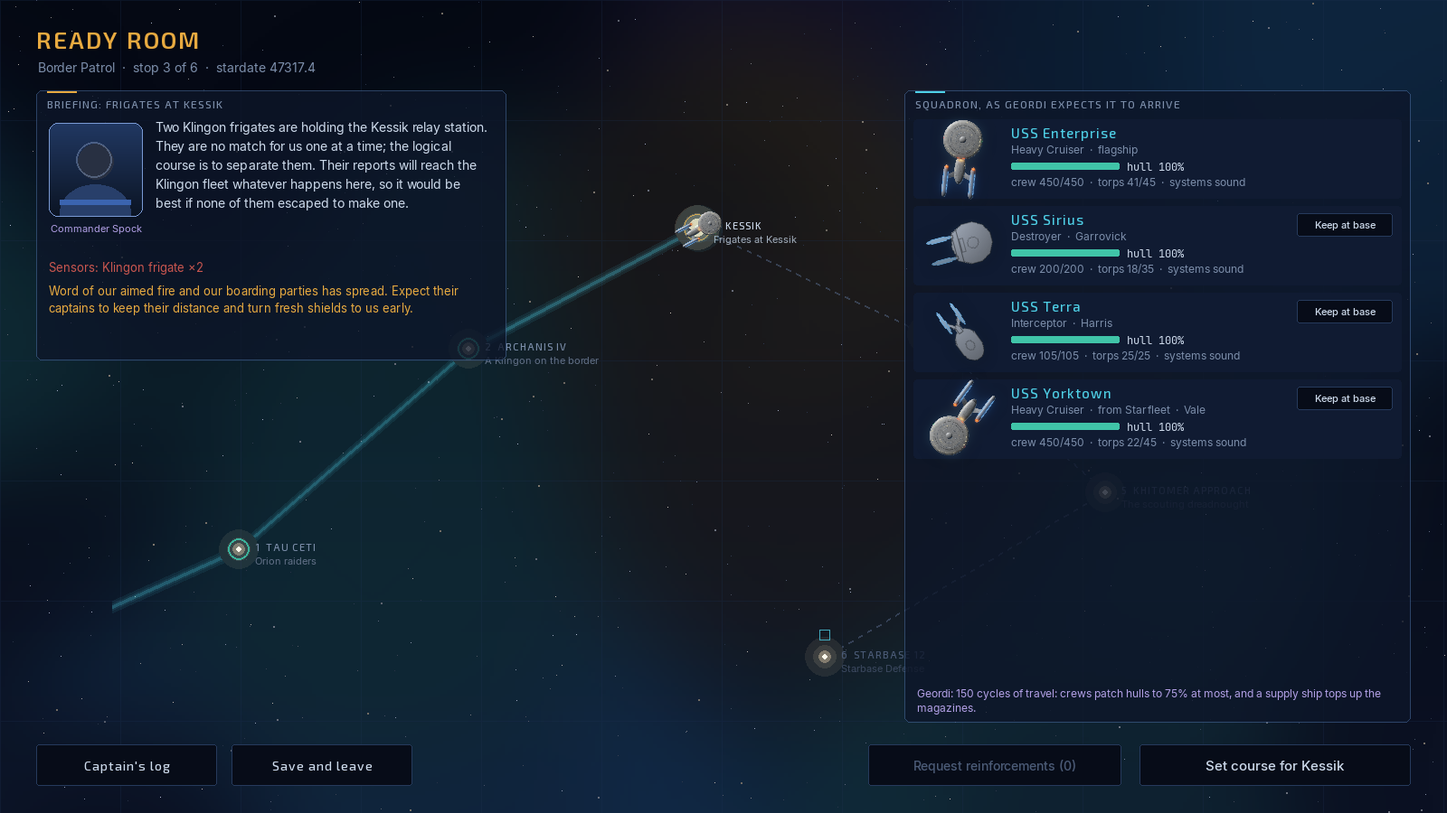
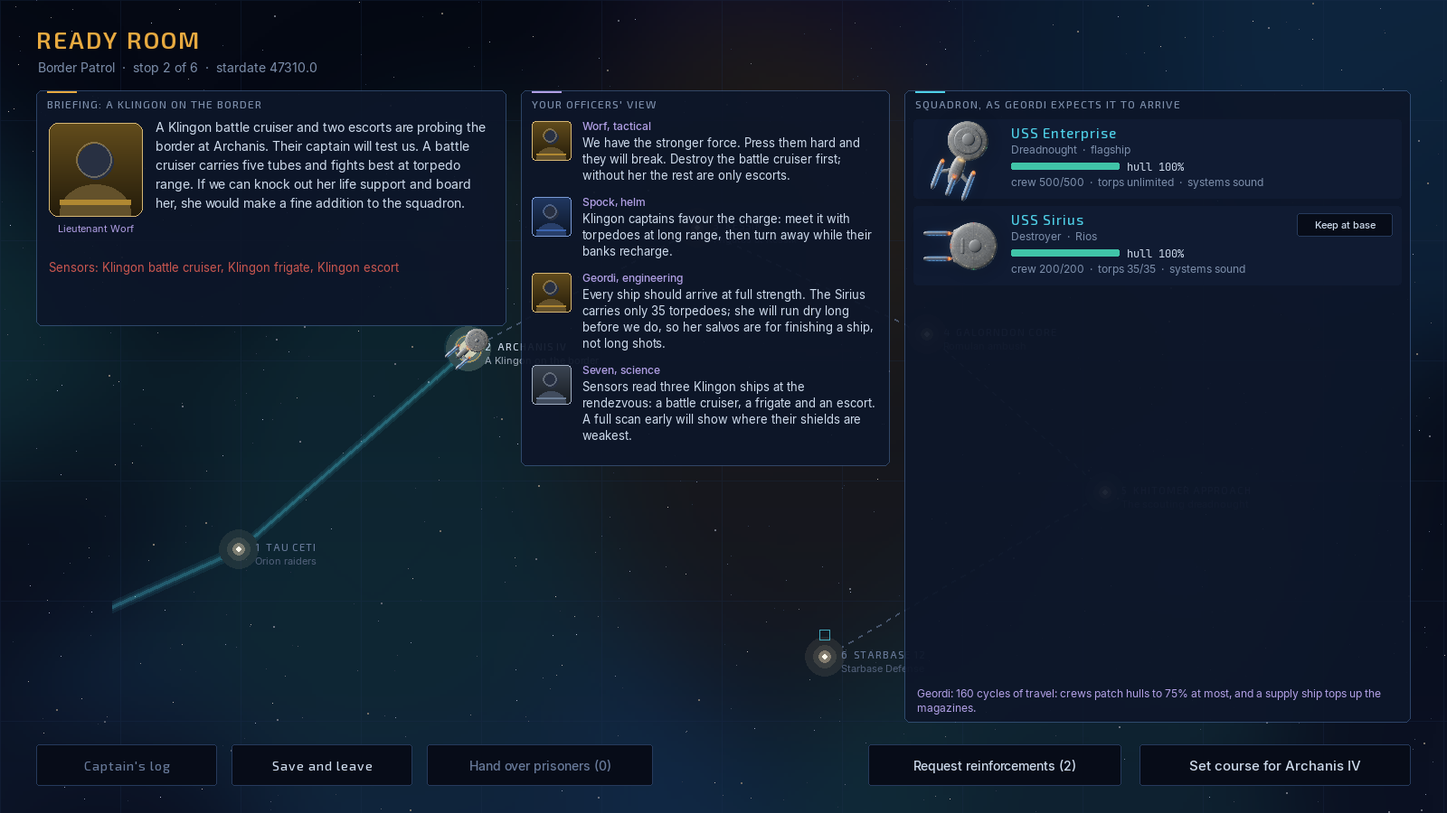
Docs and manual: missions, counsel, hold range, Starfleet's assessment, Ready Room view
- README: Missions and counsel section, new assessment and counsel screenshots, Ready Room officers' view
- Help: O and 1-4 keys, counsel in Your crew, missions playbook and hold range in The sword and the mind,
  assessment wording and Karagite rule, officers' view in Tours, index entries
- ARCHITECTURE: missions, situation, counsel, hold range, assessment and ready counsel modules
- Manual rebuilt

diff --git a/docs/MANUAL.md b/docs/MANUAL.md
@@ -289,6 +289,10 @@ Start a line with an officer's name and talk:
 
 They answer from what your sensors know, never more. Now and then an officer at a station you are running proposes an order ("Torpedoes inbound, Captain. Evasive manoeuvres?"). **Y** makes it so and **N** belays it. With a language model connected ([Officers and language models](#topic-llm)), they answer in their own words and never repeat a line. Without one, they use lines written for them. Either way, `crew chatter off` quiets them, though an officer working a job still says what they are doing.
 
+### Counsel
+
+Press **O** (or type `counsel`) and all four lay out a way forward at once, each from their own station: Worf the sword, Spock geometry and the mind, La Forge keeping the ship alive to win, Seven knowing before striking. Each plan is two to four console lines built from the live fight, and the panel is rebuilt as the fight changes. Go all in on one (**1** to **4**) or click single steps from several; both can win. Name a goal (`counsel disable all their engines`) and each plans toward it. The battle slows while you read; press **Space** first to stop it entirely. See [Counsel from the bridge](#topic-counsel).
+
 ### Trust and rapport
 
 They remember. Thanks and taking their advice build **rapport**, and insults wear it down. Rapport colours how they speak to you. **Trust** grows as you fight together: for each proposal you accept, each battle won at their post, and each time they stand out in the debrief. Trusted officers propose even while you type. Veterans act on an urgent proposal themselves if you leave it unanswered. See [Command styles and trust](#topic-styles).
@@ -623,7 +627,7 @@ The side that chooses the range usually wins. Look at your weapons and at hers, 
 - **Torpedo-heavy ships** want to stand off inside their torpedo envelope and outside her phasers.
 - **Phaser-heavy ships** want to close fast and stay close, where every hit is strongest.
 
-Use `pursue <ship> warp <w>` to hold a chase and `elude <ship>` to keep away. The [Coach](#topic-coach) tells you which side of each envelope you are on. Remember that her motion moves the envelope: a ship charging at you shrinks your minimum range, and a ship running away stretches it.
+Use `pursue <ship> warp <w>` to hold a chase, `elude <ship>` to keep away, and `pursue <ship> at 9000` (or `elude <ship> at 9000`) to hold her at a chosen range: the helm closes when she is beyond it, opens when she is inside, and circles her in between. The [Coach](#topic-coach) tells you which side of each envelope you are on. Remember that her motion moves the envelope: a ship charging at you shrinks your minimum range, and a ship running away stretches it.
 
 #### Fight with your shields
 
@@ -672,6 +676,8 @@ You can't watch everything, and you don't have to:
 - Hand the helm to Spock while you fight the guns.
 - Hand Seven a job: disable their shields, take out her torpedoes, find that cloaked ship.
 - When the battle is too big, give an officer the conn and step in only where it matters.
+
+When you aren't sure, ask the whole bridge at once: **O** opens the [Counsel from the bridge](#topic-counsel), four plans from four perspectives, each a few console lines you can run whole or a step at a time.
 
 Your orders always come first. See [Your crew](#topic-your-crew).
 
@@ -744,6 +750,14 @@ Allies follow standing orders until you change them:
 - A crippled ally can be towed to a starbase with `tow`. Docked, she can't be hit and repairs twice as fast.
 
 See [Ally orders](#topic-tell).
+
+#### Missions
+
+A mission changes what winning means ([Missions](#topic-missions)):
+
+- **Rescue.** The hunter goes for the stricken ship first, so kill or draw her off, then close to 3,000 and lower only the shield that faces the wreck. Keep the armoured side to the enemy, or have a wingman screen you.
+- **Escort.** Get between the hunters and the freighter early; once she is under fire it is already late. Disabling a hunter's drives works as well as killing her.
+- **Intercept.** Don't chase her stern. Lay a course that meets her (Spock's "Cut her off" works one out), and leave her escorts for later unless they stand in the way. Disabling her engines ends it as surely as destroying her.
 
 ### More than one way to win
 
@@ -956,12 +970,14 @@ Begin's commands all work as written. On top of them:
 - [Named tactical orders](#topic-orders): a battle plan written before the fight or recorded during it, run with one word.
 - [Patrols](#topic-patrol) and [tours of duty](#topic-tour): a fresh mission each time, or battles linked into a campaign.
 - [Hailing enemy captains](#topic-hailing), who can be talked into surrendering or leaving.
+- [Missions](#topic-missions) with a goal beyond holding the field: rescue a stricken ship's people, get a convoy through, stop a runner.
+- [Counsel from the bridge](#topic-counsel): press **O** and each officer lays out a plan from the live fight, or toward a goal you name.
 - [Sharp drawing on Retina and 4K screens](#topic-display), with weapon light on the hulls.
 - [Orders in plain English](#topic-plain-english) with a language model; exact commands and short forms like `tor al` always run at once.
 - [Language models](#topic-llm), including an optional second model for character voices: richer Klingon, Romulan and other alien speech.
 - [Hull repairs](#topic-repair) and an engineer who can direct the crews, [crew morale](#topic-morale) and `address crew`, and [evasive manoeuvres](#topic-helm).
 - [Sound](#topic-sound) with a choice of phaser and torpedo sounds, or your own WAV files.
-- [The battle assessment](#topic-after-battle), with the officer who did the most.
+- [Starfleet's assessment](#topic-after-battle): the mission, lives, conduct and cost, a commendation when one is earned, and a line from each officer.
 - The [Coach](#topic-coach), which also runs a training session from the main menu before your first battle.
 
 #### Using this manual
@@ -1029,6 +1045,8 @@ The page format is described in [Writing help pages](#topic-writing-help).
 | **1**–**8** with the wheel open | Pick a slice |
 | **Y** / **N** | Make an officer's proposal so, or belay it |
 | **Ctrl+Y** while typing | Accept the urgent proposal shown above the console |
+| **O** | Open or close the counsel: each officer's plan from here. See [Counsel from the bridge](#topic-counsel). |
+| **1**–**4** with the counsel open | Go all in on that officer's plan |
 | **Tab** while typing | Finish a command, ship, officer or order name |
 | Hold **Right Alt** (Option on a Mac) | Speak an order; let go to send it. See [Speaking orders](#topic-voice-orders). |
 
@@ -1053,7 +1071,7 @@ The page format is described in [Writing help pages](#topic-writing-help).
 | **H** | Open this manual |
 | **F1** | Open this page |
 | **F2–F8, F10–F12**, **Ctrl+letter** | Run a key macro. See [Key macros](#topic-keys). |
-| **Esc** | Close the open window or text display, or open the battle menu |
+| **Esc** | Close the counsel, the open window or text display, or open the battle menu |
 
 #### How much the panels show
 
@@ -3548,10 +3566,10 @@ When the battle ends, **Starfleet's assessment** opens over the map: the battle 
 
 - **The headline** answers the mission when there was one ("Everyone aboard the Aldren is safe."), else who holds the field. Under it, how the battle went in the field.
 - **Mission**: how it ended, with the people saved on a rescue.
-- **Lives**: people rescued, our crew lost, and the enemy's crew spared (surrendered, taken prisoner, allowed to withdraw on terms) and lost.
+- **Lives**: people rescued, our crew lost (or "no one of ours lost"), and the enemy's crews spared (surrendered, taken prisoner, allowed to withdraw on terms) and lost.
 - **Conduct**: surrenders accepted, prisoners taken, truces kept, and any fire on a ship that had struck her colours.
 - **Cost**: the flagship's hull, torpedoes left, systems down, ships lost.
-- **Commendation**: at most one, and only for something specific. The **Karagite Order of Heroism** for bringing everyone off a stricken ship under fire; the **Palm Leaf of Axanar Peace Mission** for winning while sparing those who yielded; the **Grankite Order of Tactics** for a decisive victory against several ships that left your ship sound.
+- **Commendation**: at most one, and only for something specific. The **Karagite Order of Heroism** for bringing every soul off a stricken ship, most of them beamed across while the enemy was still fighting (people taken off after the battle don't count toward it); the **Palm Leaf of Axanar Peace Mission** for winning while sparing those who yielded; the **Grankite Order of Tactics** for a decisive victory against several ships that left your ship sound.
 - **The bridge**: a line from each officer whose work showed, in their own manner.
 - **What follows**: who escaped and what they will report, what the enemy will remember of your conduct, and on a tour, what the mission's result changes.
 
@@ -3569,7 +3587,7 @@ Then each side's losses, and a line for every ship: damage dealt and taken, phas
 
 The panel borders pulse red while your ship is at **red alert**: hit in the last few cycles, or with an enemy within 12,000. A two-tone whoop sounds three times when it starts. The borders pulse for a few seconds, then settle to a steady red edge for the rest of the fight. A ship below half hull sheds sparks: always yours, and an enemy's only once a scan has shown the damage, so the map never gives away what your sensors don't know.
 
-See also: [Bridge officers](#topic-crew), [Crew morale](#topic-morale), [Time, pause and quitting](#topic-time).
+See also: [Missions](#topic-missions), [Counsel from the bridge](#topic-counsel), [Bridge officers](#topic-crew), [Crew morale](#topic-morale), [Time, pause and quitting](#topic-time).
 
 <a id="topic-styles"></a>
 
@@ -3684,6 +3702,7 @@ Before the tour you choose the escorts that sail with the flagship. Each class c
 Between stops you are in the Ready Room, over the patrol chart.
 
 - **The briefing.** The officer who knows the threat best tells you what to expect, and what the enemy has learned about you so far. Fight with aimed fire and boarding parties and their captains grow wary; run your magazines low and they close in.
+- **Your officers' view.** Worf, Spock, La Forge and Seven each give two sentences on the next stop: the force to beat and where to strike, how that navy likes to fight and the geometry of any mission, how the squadron will arrive and whether a refit or a call to Starfleet is worth it, and what the sensors can and can't tell us yet. See [Counsel from the bridge](#topic-counsel).
 - **Your decision.** Some stops ask you to choose, for example whether to put in for a refit. A refit makes every ship good, but the enemy uses the time too.
 - **The squadron.** Each ship as Geordi expects her to arrive. On the way, crews repair systems and patch hulls (to 75% at most; a starbase does the rest), and a supply ship tops up the magazines. **Keep at base** leaves a ship behind to be refitted; she misses the next fight.
 - **Request reinforcements.** Starfleet sends a ship. Called from the Ready Room, she meets you at the stop, or partway into the fight if the trip is short. Each tour allows only a few calls.

diff --git a/README.md b/README.md
@@ -12,7 +12,7 @@ You command a starship from a top-down tactical map and a Begin-style command co
 - aimed fire at a ship's systems, and boarding parties that take and keep enemy ships;
 - enemy captains you can hail, who are cowed or enraged by what you do to their allies, and who can be talked into surrendering or leaving;
 - a campaign: tours of duty that link battle after battle, with a squadron that carries its scars;
-- patrols: a random mission each time, from an ambush on two sides to a flagship behind her screen;
+- patrols: a random mission each time, from an ambush on two sides to a flagship behind her screen, a distress call, a convoy or a runner;
 - officers you shape yourself in a config file, from a new name to a Worf who cooks for the crew, and whose trust in you grows across battles;
 - an optional second language model just for the characters, for richer Klingon, Romulan and other alien speech;
 - crew morale and hull repairs;
@@ -29,7 +29,7 @@ Between stops you sit in the Ready Room over the patrol chart. The officer who k
 
 And the tour writes itself down. After each stop your bridge officers report on their stations, each captain in the squadron reports on their own ship, and your own entry is drafted for you to keep or rewrite. With a language model configured, the officers write in their own voices. The whole log is kept as Markdown you can edit, so a tour ends as a story of the patrol you actually flew. More on how it plays is under [Tours of duty](#tours-of-duty) below.
 
-![The Ready Room: Spock's briefing, the squadron as it will arrive, and the patrol chart behind](docs/screenshots/tour-ready.png)
+![The Ready Room: Worf's briefing, each officer's view of the next stop, and the squadron as Geordi expects it to arrive](docs/screenshots/tour-ready.png)
 
 ## Download and play
 
@@ -236,11 +236,19 @@ Nothing is required. If OpenGL 3.3 isn't there (an old driver, a remote desktop,
 
 The game synthesises all of its sound when it starts. You only hear what you can see, panned to where it happens on the map. **M** mutes, `sound 40` sets the volume, and `sound phaser a` or `sound torpedo b` picks one of four versions of each (rays and buzzes, pulses and thumps). To use your own, drop `phaser.wav` or `torpedo.wav` into `config/sounds/` and it replaces the game's.
 
+### Missions and counsel
+
+Some battles carry a mission beyond holding the field. On a **rescue** a crippled ship of ours drifts with people aboard and a failing reactor: close to transporter range and lower the one shield that faces her, while a hunter goes for her and the rest come for you. On an **escort** a freighter sails for a point and cannot fight. On an **intercept** a runner makes for the edge of the sector with her report, already out on the flank, and a stern chase loses her. The mission card on the map shows how it stands, and a failed mission changes what happens later in a tour.
+
+Press **O** for counsel and your four officers each lay out a way forward from the live fight, from their own station: Worf the sword, Spock geometry and the mind, La Forge keeping the ship alive to win, Seven knowing before striking. Every plan is a few console lines, rebuilt as the battle changes. Go all in on one with **1** to **4**, or click single steps from several; in testing over 210 battles both ways won. Aim it at a goal (`counsel disable all their engines`, `counsel kill all the borg cubes`) and each officer plans toward that instead. The battle slows while the panel is open, and **Space** stops it. Officers who want a ship fought at a range now say so with a hold-range order, `pursue gorkon at 9000`, which keeps her there instead of running off the map.
+
+![Counsel during a rescue: four officers' plans on the left, the mission card at the top](docs/screenshots/counsel.png)
+
 ### After the battle
 
-The assessment shows the score, your ship's record, every ship's damage and hits, and the officer who did the most for you.
+**Starfleet's assessment** reads the battle as Command will: the mission, the lives saved and lost on both sides, how you treated those who yielded, what it cost, a commendation when one is earned (the Karagite Order of Heroism, the Palm Leaf of Axanar Peace Mission, the Grankite Order of Tactics), and a line from each officer whose work showed. **Details** opens the full record: the score, your ship's record, every ship's damage and hits, and the officer who did the most for you.
 
-![The battle assessment](docs/screenshots/debrief.png)
+![Starfleet's assessment after a rescue: everyone safe, a decisive victory and the Grankite Order of Tactics](docs/screenshots/assessment.png)
 
 ### Patrols
 
@@ -250,7 +258,7 @@ The assessment shows the score, your ship's record, every ship's damage and hits
 
 ### Tours of duty
 
-**Tour of duty** on the main menu (or **T**) strings battles into a patrol. Pick your escorts within the tour's fleet budget, then fly stop after stop: every ship keeps her damage, casualties, empty torpedo racks and morale from one fight to the next, prizes you board join the squadron, and a ship you lose stays lost. Between stops you are in the Ready Room, over the patrol chart: an officer briefs you on the next stop (and on what the enemy has learned about how you fight), you make the stop's decision, such as a refit that costs time, and Geordi shows how each ship will arrive after the crews patch her up on the way. You can call Starfleet for reinforcements there or in battle with `request reinforcements`; the ship drops out of warp after a delay, with her ETA on the map. Starbase stops come in waves, with a lull between them for docking.
+**Tour of duty** on the main menu (or **T**) strings battles into a patrol. Pick your escorts within the tour's fleet budget, then fly stop after stop: every ship keeps her damage, casualties, empty torpedo racks and morale from one fight to the next, prizes you board join the squadron, and a ship you lose stays lost. Between stops you are in the Ready Room, over the patrol chart: an officer briefs you on the next stop (and on what the enemy has learned about how you fight), each officer gives their view of it in two sentences, you make the stop's decision, such as a refit that costs time, and Geordi shows how each ship will arrive after the crews patch her up on the way. You can call Starfleet for reinforcements there or in battle with `request reinforcements`; the ship drops out of warp after a delay, with her ETA on the map. Starbase stops come in waves, with a lull between them for docking.
 
 After each stop your officers write up their stations, each captain reports on their ship, and your own entry is drafted for you to rewrite. With a language model configured, the officers rewrite theirs in their own voices. The log is kept as Markdown in `config/tours/`, and you can edit your entries there too. Four tours ship with the game, and your own go in `config/tours/*.toml` (see [docs/EXTENDING.md](docs/EXTENDING.md#a-tour-of-duty)).
 

diff --git a/docs/ARCHITECTURE.md b/docs/ARCHITECTURE.md
@@ -184,6 +184,15 @@ How the captain gives orders is layered over the console rather than beside it: 
 - **On the screen**: `ui/wheel.py` (`CommandWheel`, slices from `wheel.toml` via `load_wheels`, the captain's file winning kind by kind), `ui/order_marks.py` (the captain's standing orders drawn on the map, and the ghost of the typed line), and `ui/orders_panel.py` (the Orders tab's cards).
 - **Voice** (`voice/`, `ui/microphone.py`, `ui/battle/voice.py`): `Recorder` captures 16 kHz mono through SDL while the push-to-talk key is held and returns a WAV; an `Engine` from `voice/engines.make_engine` (`MacSpeech`, `WhisperLocal`, `WhisperServer`, `CloudWhisper`) turns it into text on a worker thread, and the text is typed into the console as if by hand. `MacSpeech` builds `mac_transcribe.swift` into `config/voice/` the first time; a failure is a `VoiceError` shown as it is.
 
+## Missions, counsel and the assessment
+
+- **Missions** (`sim/mission.py`): a `MissionDef` (rescue, escort or intercept) is read from a tour stop or preset, and `Mission` runs inside the world each tick: the ward, the hunters, beaming people across through a lowered shield, the escort's course, the runner's pace (`runner_pace` × our fastest ship's top warp) and the result. The ward is not a fighting ship, so it never holds the field or escapes. `battle_over` settles what is left when the battle ends.
+- **The situation** (`crew/situation.py`): `Situation` is one read-only picture of the fight for the officers, built only from what our sensors, scans and hits know: our ship in full, every contact, both sides' envelopes, cloaks and plasma trails, the Borg's adaptation, the mission (`MissionView`, with the runner's intercept course) and Starfleet's calls.
+- **Counsel** (`crew/counsel.py`): `moves(situation, goal)` lists every move that fits now, each a short list of console lines with a lean toward each station; `counsel()` gives each officer the move they lean to most, then follow-ons that share no line with another officer's plan, so the four plans are distinct. Only lines the parser accepts now are offered. `parse_goal` reads a goal ("disable all their engines") into a `Goal`. The panel is `ui/counsel_view.py`; it is rebuilt about once a cycle while open and slows the battle like typing does.
+- **Holding a range**: `Pursue.keep` sets `Ship.helm_keep`, and the helm (`sim/systems/helm.py`) closes, opens or circles within `KEEP_BAND` of it.
+- **The assessment** (`session/assessment.py`): built from the world's outcome, the mission and the score; the overlay is drawn in `ui/battle/render.py`, with **Details** opening the older debrief.
+- **Before the battle** (`tour/ready.py`): `ready_counsel(run)` gives each officer's two sentences on the next stop from what the tour knows; `ui/tour_scene.py` shows them in the Ready Room.
+
 ## The manual
 
 There is one manual, and it is written once. The help pages (`assets/help/*.md`, read by `help/docs.py`) are what the in-game manual shows. Pages in the "Captain's manual" category are the chapters: the powers, the crew, how a battle works, orders, weapons, tactics and the moves no button tells you about. `{{...}}` blocks fill tables from the game's data when a page is shown (`help/coach.py`, `help/lore.py`). `help/book.py` binds the same pages into `docs/MANUAL.md`: the chapters, then every other page by category, then the data tables. Only shipped data goes in, never a player's own config.

diff --git a/src/begin/assets/help/sword-and-mind.md b/src/begin/assets/help/sword-and-mind.md
@@ -17,7 +17,7 @@ The side that chooses the range usually wins. Look at your weapons and at hers, 
 - **Torpedo-heavy ships** want to stand off inside their torpedo envelope and outside her phasers.
 - **Phaser-heavy ships** want to close fast and stay close, where every hit is strongest.
 
-Use `pursue <ship> warp <w>` to hold a chase and `elude <ship>` to keep away. The [[coach]] tells you which side of each envelope you are on. Remember that her motion moves the envelope: a ship charging at you shrinks your minimum range, and a ship running away stretches it.
+Use `pursue <ship> warp <w>` to hold a chase, `elude <ship>` to keep away, and `pursue <ship> at 9000` (or `elude <ship> at 9000`) to hold her at a chosen range: the helm closes when she is beyond it, opens when she is inside, and circles her in between. The [[coach]] tells you which side of each envelope you are on. Remember that her motion moves the envelope: a ship charging at you shrinks your minimum range, and a ship running away stretches it.
 
 ### Fight with your shields
 
@@ -66,6 +66,8 @@ You can't watch everything, and you don't have to:
 - Hand the helm to Spock while you fight the guns.
 - Hand Seven a job: disable their shields, take out her torpedoes, find that cloaked ship.
 - When the battle is too big, give an officer the conn and step in only where it matters.
+
+When you aren't sure, ask the whole bridge at once: **O** opens the [[counsel]], four plans from four perspectives, each a few console lines you can run whole or a step at a time.
 
 Your orders always come first. See [[your-crew|Your crew]].
 
@@ -138,6 +140,14 @@ Allies follow standing orders until you change them:
 - A crippled ally can be towed to a starbase with `tow`. Docked, she can't be hit and repairs twice as fast.
 
 See [[tell]].
+
+### Missions
+
+A mission changes what winning means ([[missions]]):
+
+- **Rescue.** The hunter goes for the stricken ship first, so kill or draw her off, then close to 3,000 and lower only the shield that faces the wreck. Keep the armoured side to the enemy, or have a wingman screen you.
+- **Escort.** Get between the hunters and the freighter early; once she is under fire it is already late. Disabling a hunter's drives works as well as killing her.
+- **Intercept.** Don't chase her stern. Lay a course that meets her (Spock's "Cut her off" works one out), and leave her escorts for later unless they stand in the way. Disabling her engines ends it as surely as destroying her.
 
 ## More than one way to win
 

diff --git a/src/begin/assets/help/after-battle.md b/src/begin/assets/help/after-battle.md
@@ -4,16 +4,16 @@ category: Game
 order: 4
 aliases: after the battle, assessment, starfleet's assessment, commendation, commendations, debrief, battle assessment, score, standout, standout officer, review the field, red alert
 summary: Starfleet's assessment of the battle (mission, lives, conduct, cost, a commendation), and the full record behind it.
-see: crew, morale, time
+see: missions, counsel, crew, morale, time
 ---
 When the battle ends, **Starfleet's assessment** opens over the map: the battle as Starfleet Command will read it.
 
 - **The headline** answers the mission when there was one ("Everyone aboard the Aldren is safe."), else who holds the field. Under it, how the battle went in the field.
 - **Mission**: how it ended, with the people saved on a rescue.
-- **Lives**: people rescued, our crew lost, and the enemy's crew spared (surrendered, taken prisoner, allowed to withdraw on terms) and lost.
+- **Lives**: people rescued, our crew lost (or "no one of ours lost"), and the enemy's crews spared (surrendered, taken prisoner, allowed to withdraw on terms) and lost.
 - **Conduct**: surrenders accepted, prisoners taken, truces kept, and any fire on a ship that had struck her colours.
 - **Cost**: the flagship's hull, torpedoes left, systems down, ships lost.
-- **Commendation**: at most one, and only for something specific. The **Karagite Order of Heroism** for bringing everyone off a stricken ship under fire; the **Palm Leaf of Axanar Peace Mission** for winning while sparing those who yielded; the **Grankite Order of Tactics** for a decisive victory against several ships that left your ship sound.
+- **Commendation**: at most one, and only for something specific. The **Karagite Order of Heroism** for bringing every soul off a stricken ship, most of them beamed across while the enemy was still fighting (people taken off after the battle don't count toward it); the **Palm Leaf of Axanar Peace Mission** for winning while sparing those who yielded; the **Grankite Order of Tactics** for a decisive victory against several ships that left your ship sound.
 - **The bridge**: a line from each officer whose work showed, in their own manner.
 - **What follows**: who escaped and what they will report, what the enemy will remember of your conduct, and on a tour, what the mission's result changes.
 

diff --git a/src/begin/assets/help/tour.md b/src/begin/assets/help/tour.md
@@ -2,7 +2,7 @@
 title: Tours of duty
 category: Game
 order: 5
-aliases: tour, tours, tour of duty, request, request reinforcements, reinforcements, ready room, squadron, captain's log, log, waves
+aliases: tour, tours, tour of duty, officers' view, request, request reinforcements, reinforcements, ready room, squadron, captain's log, log, waves
 summary: Linked battles with a squadron you choose: damage, crews, torpedoes and prizes carry from one stop to the next.
 see: after-battle, crew, dock, fleet
 ---
@@ -19,6 +19,7 @@ Before the tour you choose the escorts that sail with the flagship. Each class c
 Between stops you are in the Ready Room, over the patrol chart.
 
 - **The briefing.** The officer who knows the threat best tells you what to expect, and what the enemy has learned about you so far. Fight with aimed fire and boarding parties and their captains grow wary; run your magazines low and they close in.
+- **Your officers' view.** Worf, Spock, La Forge and Seven each give two sentences on the next stop: the force to beat and where to strike, how that navy likes to fight and the geometry of any mission, how the squadron will arrive and whether a refit or a call to Starfleet is worth it, and what the sensors can and can't tell us yet. See [[counsel]].
 - **Your decision.** Some stops ask you to choose, for example whether to put in for a refit. A refit makes every ship good, but the enemy uses the time too.
 - **The squadron.** Each ship as Geordi expects her to arrive. On the way, crews repair systems and patch hulls (to 75% at most; a starbase does the rest), and a supply ship tops up the magazines. **Keep at base** leaves a ship behind to be refitted; she misses the next fight.
 - **Request reinforcements.** Starfleet sends a ship. Called from the Ready Room, she meets you at the stop, or partway into the fight if the trip is short. Each tour allows only a few calls.

diff --git a/src/begin/assets/help/your-crew.md b/src/begin/assets/help/your-crew.md
@@ -64,6 +64,10 @@ Start a line with an officer's name and talk:
 
 They answer from what your sensors know, never more. Now and then an officer at a station you are running proposes an order ("Torpedoes inbound, Captain. Evasive manoeuvres?"). **Y** makes it so and **N** belays it. With a language model connected ([[llm]]), they answer in their own words and never repeat a line. Without one, they use lines written for them. Either way, `crew chatter off` quiets them, though an officer working a job still says what they are doing.
 
+## Counsel
+
+Press **O** (or type `counsel`) and all four lay out a way forward at once, each from their own station: Worf the sword, Spock geometry and the mind, La Forge keeping the ship alive to win, Seven knowing before striking. Each plan is two to four console lines built from the live fight, and the panel is rebuilt as the fight changes. Go all in on one (**1** to **4**) or click single steps from several; both can win. Name a goal (`counsel disable all their engines`) and each plans toward it. The battle slows while you read; press **Space** first to stop it entirely. See [[counsel]].
+
 ## Trust and rapport
 
 They remember. Thanks and taking their advice build **rapport**, and insults wear it down. Rapport colours how they speak to you. **Trust** grows as you fight together: for each proposal you accept, each battle won at their post, and each time they stand out in the debrief. Trusted officers propose even while you type. Veterans act on an urgent proposal themselves if you leave it unanswered. See [[styles|Command styles and trust]].

diff --git a/src/begin/assets/help/index.md b/src/begin/assets/help/index.md
@@ -29,12 +29,14 @@ Begin's commands all work as written. On top of them:
 - [[orders|Named tactical orders]]: a battle plan written before the fight or recorded during it, run with one word.
 - [[patrol|Patrols]] and [[tour|tours of duty]]: a fresh mission each time, or battles linked into a campaign.
 - [[hailing|Hailing enemy captains]], who can be talked into surrendering or leaving.
+- [[missions|Missions]] with a goal beyond holding the field: rescue a stricken ship's people, get a convoy through, stop a runner.
+- [[counsel|Counsel from the bridge]]: press **O** and each officer lays out a plan from the live fight, or toward a goal you name.
 - [[display|Sharp drawing on Retina and 4K screens]], with weapon light on the hulls.
 - [[plain-english|Orders in plain English]] with a language model; exact commands and short forms like `tor al` always run at once.
 - [[llm|Language models]], including an optional second model for character voices: richer Klingon, Romulan and other alien speech.
 - [[repair|Hull repairs]] and an engineer who can direct the crews, [[morale|crew morale]] and `address crew`, and [[helm|evasive manoeuvres]].
 - [[sound|Sound]] with a choice of phaser and torpedo sounds, or your own WAV files.
-- [[after-battle|The battle assessment]], with the officer who did the most.
+- [[after-battle|Starfleet's assessment]]: the mission, lives, conduct and cost, a commendation when one is earned, and a line from each officer.
 - The [[coach]], which also runs a training session from the main menu before your first battle.
 
 ## Using this manual

diff --git a/src/begin/assets/help/controls.md b/src/begin/assets/help/controls.md
@@ -43,6 +43,8 @@ see: console, keys
 | **1**–**8** with the wheel open | Pick a slice |
 | **Y** / **N** | Make an officer's proposal so, or belay it |
 | **Ctrl+Y** while typing | Accept the urgent proposal shown above the console |
+| **O** | Open or close the counsel: each officer's plan from here. See [[counsel]]. |
+| **1**–**4** with the counsel open | Go all in on that officer's plan |
 | **Tab** while typing | Finish a command, ship, officer or order name |
 | Hold **Right Alt** (Option on a Mac) | Speak an order; let go to send it. See [[voice-orders]]. |
 
@@ -67,7 +69,7 @@ see: console, keys
 | **H** | Open this manual |
 | **F1** | Open this page |
 | **F2–F8, F10–F12**, **Ctrl+letter** | Run a key macro. See [[keys]]. |
-| **Esc** | Close the open window or text display, or open the battle menu |
+| **Esc** | Close the counsel, the open window or text display, or open the battle menu |
 
 ## How much the panels show
 
